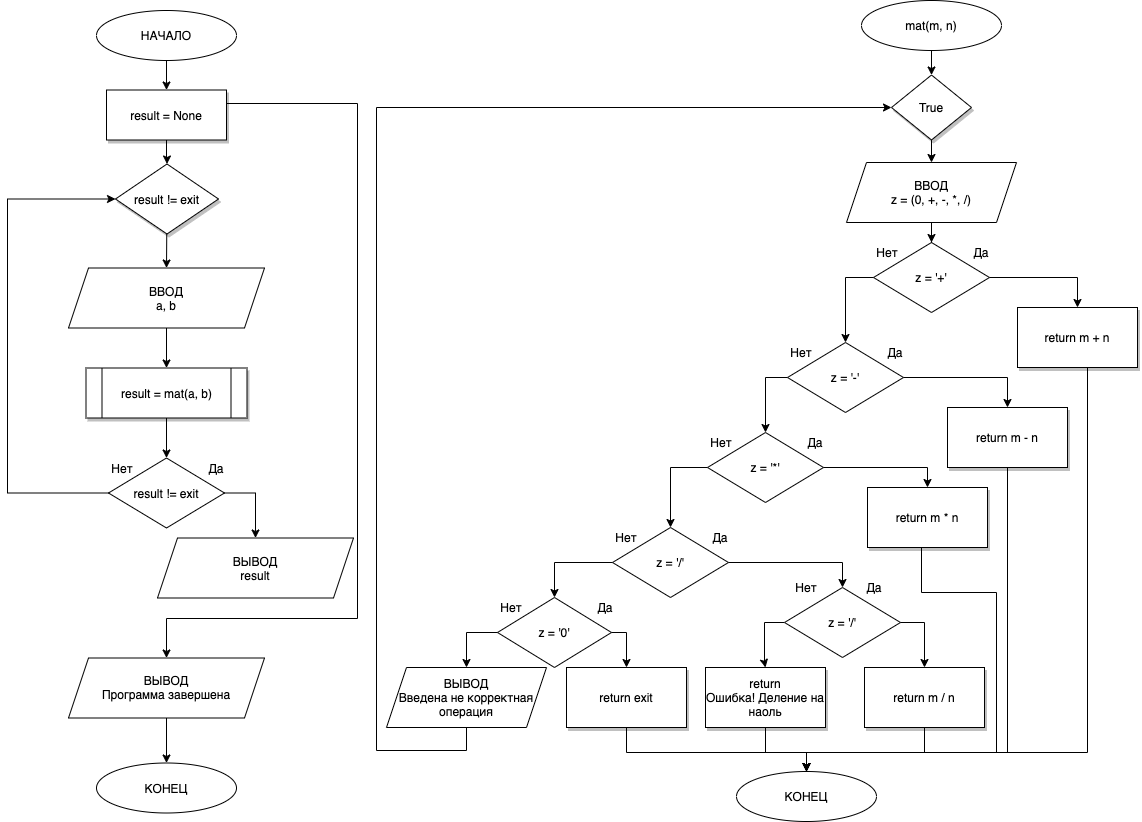
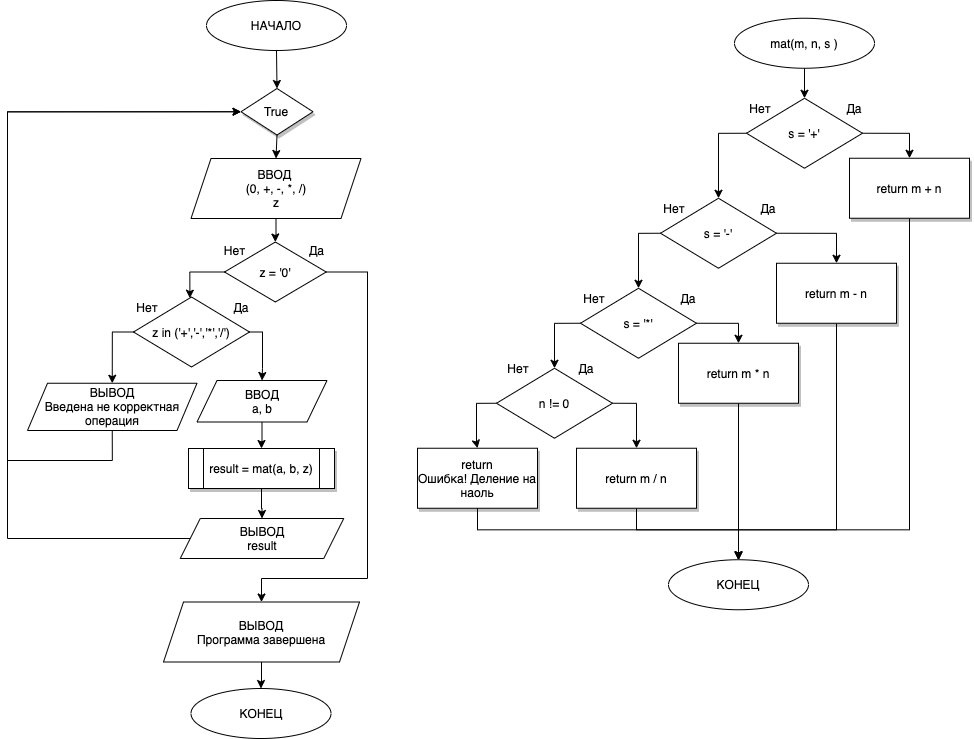
Решение задач второго урока

diff --git a/task_02_01.py b/task_02_01.py
@@ -6,34 +6,31 @@
 # в качестве делителя.
 
 
-def mat(m, n):
-    while True:
-        z = input('Введите +, -, *, / для выполнения соотвествующей\n'
-                  'математической операции или 0 для завершения: ')
-        if z == '+':
-            return f'{m} {z} {n} = {m + n}'
-        elif z == '-':
-            return f'{m} {z} {n} = {m - n}'
-        elif z == '*':
-            return f'{m} {z} {n} = {m * n}'
-        elif z == '/':
-            if b != 0:
-                return f'{m} {z} {n} = {m / n}'
-            else:
-                return 'Ошибка! Деление на ноль.'
-        elif z == '0':
-            return exit
+def mat(m, n, s):
+    if s == '+':
+        return m + n
+    elif a == '-':
+        return m - n
+    elif s == '*':
+        return m * n
+    else:
+        if b != 0:
+            return m / n
         else:
-            print('Ошибка! Введена не верная операция!!!')
+            return 'Ошибка! Деление на ноль.'
 
 
 if __name__ == '__main__':
-
-    result = None
-    while result != exit:
-        a = float(input('Введите певрвое число: '))
-        b = float(input('Введите второе число: '))
-        result = mat(a, b)
-        if result != 'exit':
-            print(result)
+    while True:
+        z = input('Ведите знак операции (+,-,*,/) или 0 для завершения программы: ')
+        if z == '0':
+            break
+        else:
+            if z in ('+','-','*','/'):
+                a = float(input('Введите певрвое число: '))
+                b = float(input('Введите второе число: '))
+                result = mat(a, b, z)
+                print(f'{a} {z} {b} = {result}')
+            else:
+                print('Введена не корректная операция')
     print('Программа завершена')
